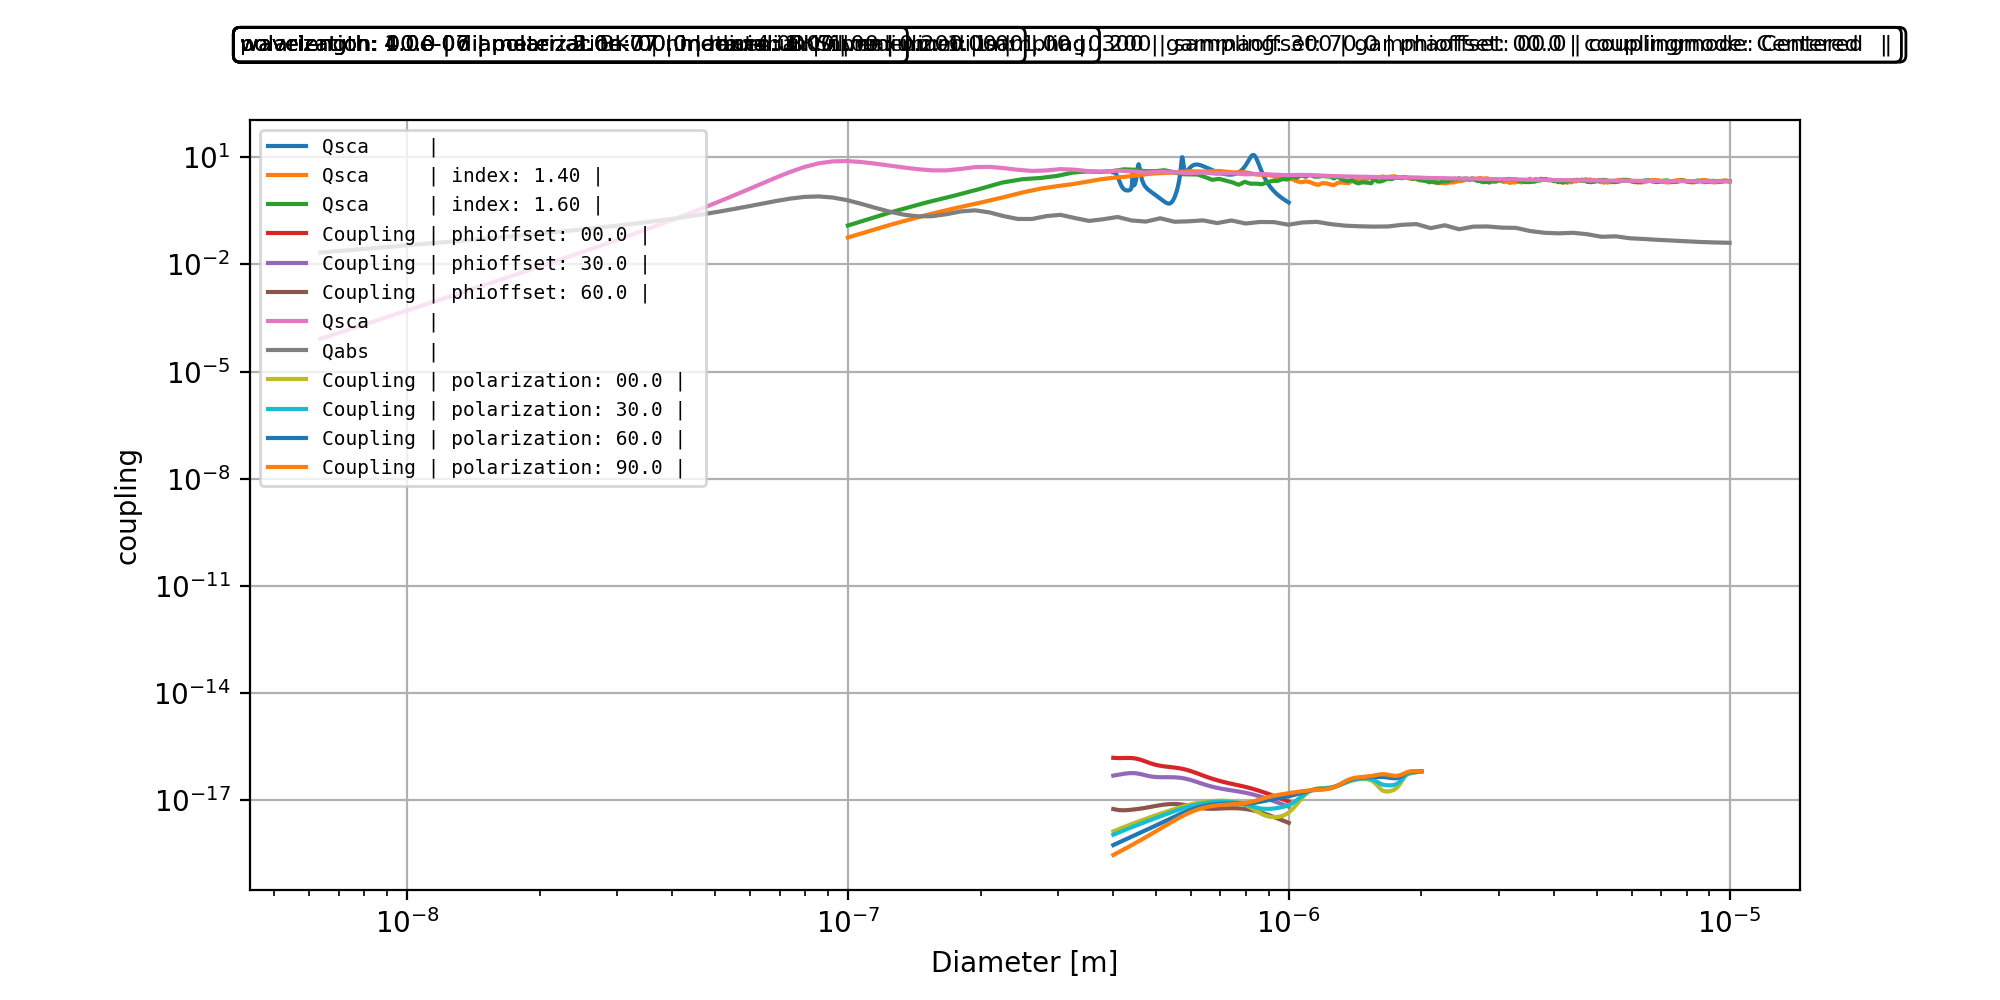
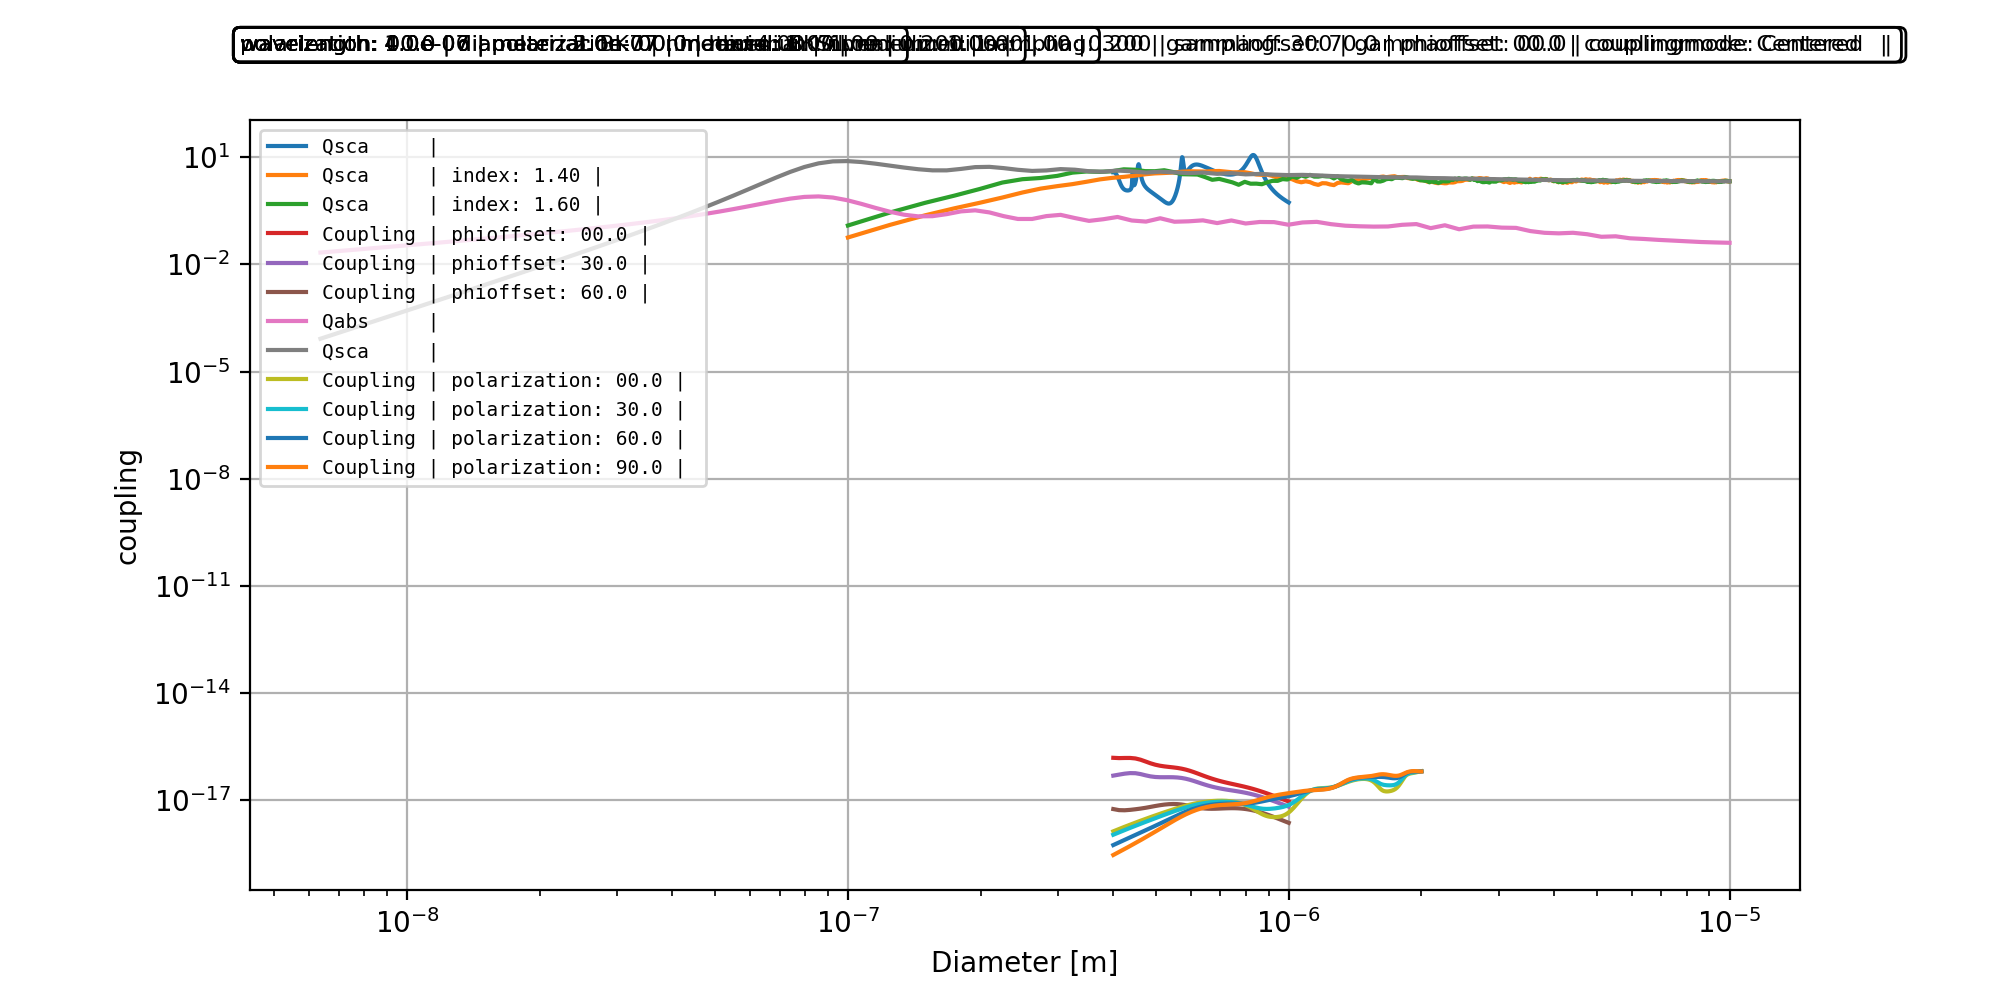
large update for examples

Changed region(s): [[0.341, 0.155, 0.868, 0.217], [0.527, 0.217, 0.868, 0.248], [0.155, 0.31, 0.186, 0.372]]

diff --git a/tests/Unittest.py b/tests/Unittest.py
@@ -244,25 +244,25 @@ class ExperiementTestCase(unittest.TestCase):
 
     def test03(self):
         global pymieArrayEff
-        pymieArrayEff = ExpSet.Get('Qsca', AsType='pymiesim')
+        pymieArrayEff = ExpSet.Get('Qsca')
         print('Experiment Efficiencies computing passed')
 
 
     def test04(self):
         global pymieArrayCoupling
-        pymieArrayCoupling = ExpSet.Get('Coupling', AsType='pymiesim')
+        pymieArrayCoupling = ExpSet.Get('Coupling')
         print('Experiment Coupling computing passed')
 
 
     def test05(self):
         GUI.invoke_after(PLOTTIME, Close)
-        pymieArrayEff.Plot(x='diameter')
+        pymieArrayEff.Plot(y='Qsca', x='diameter')
         print('PyMieSim Array Efficiencies plotting passed')
 
 
     def test06(self):
         GUI.invoke_after(PLOTTIME, Close)
-        pymieArrayCoupling.Plot(x='diameter')
+        pymieArrayCoupling.Plot(y='Coupling', x='diameter')
         print('PyMieSim Array Coupling plotting passed')
 
 

diff --git a/PyMieSim/Experiment.py b/PyMieSim/Experiment.py
@@ -212,7 +212,6 @@ class Setup(object):
 
                         else:
                             Array[i] = getattr(scatterer, prop)
-                            #print('######',Array[i],source.Wavelength, scatterer.SizeParam)
                             i       += 1
 
         Array = Array.reshape( self.config['shape'] )
@@ -233,7 +232,7 @@ class Setup(object):
             return Opt5DArray(Array)
 
         elif AsType.lower() == 'pymiesim':
-            return PMSArray(array = Array, conf = self.config)
+            return PMSArray(array = Array, conf = deepcopy(self.config) )
 
 
     def GetShape(self, config):

diff --git a/PyMieSim/Plots.py b/PyMieSim/Plots.py
@@ -67,7 +67,7 @@ def UnstructuredAbs(Mesh, Scalar = None, Name = '', Figure  = None):
 
 def UnstructuredAmplitude(Mesh, Scalar = None, Name = ''):
     Figure = mlab.figure(figure=None, size=(600,300))
-    
+
     visual.set_viewer(Figure)
 
     if Scalar is None: Scalar = Mesh.Phi.Radian.flatten()*0+1
@@ -292,7 +292,7 @@ def ExperimentPlot(func):
     ax = figure.add_subplot(111)
     ax.grid()
 
-    @FormatStr
+
     def wrapper(*args, **kwargs):
 
         kwargs['y'] = ToList(kwargs['y'])

diff --git a/examples/UpdateExamples.py b/examples/UpdateExamples.py
@@ -66,7 +66,7 @@ def runScript(script):
     except:
         logging.warning(f'Script {name} did not conclude, continuing...')
 
-"""
+
 runScript('Coupling:LPMode')
 
 runScript('Coupling:LPMode')
@@ -92,7 +92,7 @@ runScript('Experiment:Qsca-vs-diameter')
 runScript('Experiment:Coupling-vs-diameter')
 
 runScript('Experiment:Goniometer')
-"""
+
 runScript('Extra:New-Material-BK7')
 
 runScript('Extra:New-Material-Silver')
